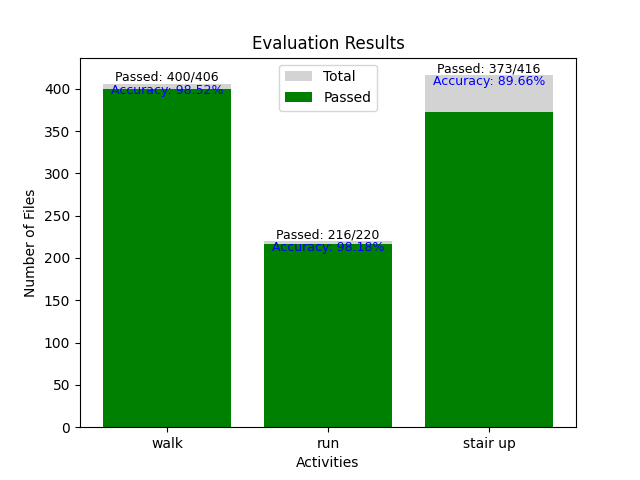
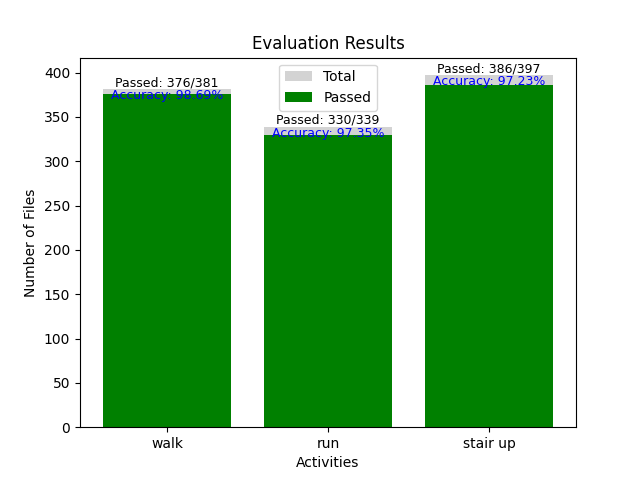
live predection5

diff --git a/front-end/app/(tabs)/motion.tsx b/front-end/app/(tabs)/motion.tsx
@@ -109,8 +109,8 @@ export default function MotionScreen() {
   return (
     <ScrollView contentContainerStyle={styles.container}>
       <Text style={styles.header}>Motion Feature Summary</Text>
-      {renderFeatureGroup("Accelerometer Features", "acc")}
-      {renderFeatureGroup("Gyroscope Features", "gyro")}
+      {/*renderFeatureGroup("Accelerometer Features", "acc")*/}
+      {/*renderFeatureGroup("Gyroscope Features", "gyro")*/}
       <Text style={styles.prediction}>Prediction: {prediction}</Text>
     </ScrollView>
   );

diff --git a/back-end/routes/evaluate_routes.py b/back-end/routes/evaluate_routes.py
@@ -9,8 +9,8 @@ evaluate_routes = Blueprint('evaluate_routes', __name__)
 @evaluate_routes.route("/", methods=["GET"])
 def evaluate():
     try:
-        # Dynamically use the testing_windows directory
-        data_dir = os.path.join(os.getcwd(), "testing_windows")
+        # Dynamically use the training_windows directory
+        data_dir = os.path.join(os.getcwd(), "training_windows")
         result = evaluate_model(data_dir)
 
         # Generate a bar chart for the results

diff --git a/back-end/train_model.py b/back-end/train_model.py
@@ -69,7 +69,7 @@ def train_model(data_dir):
     # Log dataset size
     logging.info(f"Training dataset size: {len(X)} samples")
 
-    clf = make_pipeline(StandardScaler(), KNeighborsClassifier(n_neighbors=5))
+    clf = make_pipeline(StandardScaler(), KNeighborsClassifier(n_neighbors=3))
     clf.fit(X, y)
 
     # Log model training completion

diff --git a/back-end/routes/test_routes.py b/back-end/routes/test_routes.py
@@ -6,7 +6,7 @@ import os
 # Define the blueprint for test routes
 test_routes = Blueprint('test_routes', __name__)
 
-@test_routes.route("/test", methods=["GET"])
+@test_routes.route("/", methods=["GET"])
 def test_model():
     try:
         # Dynamically use the testing_windows directory
